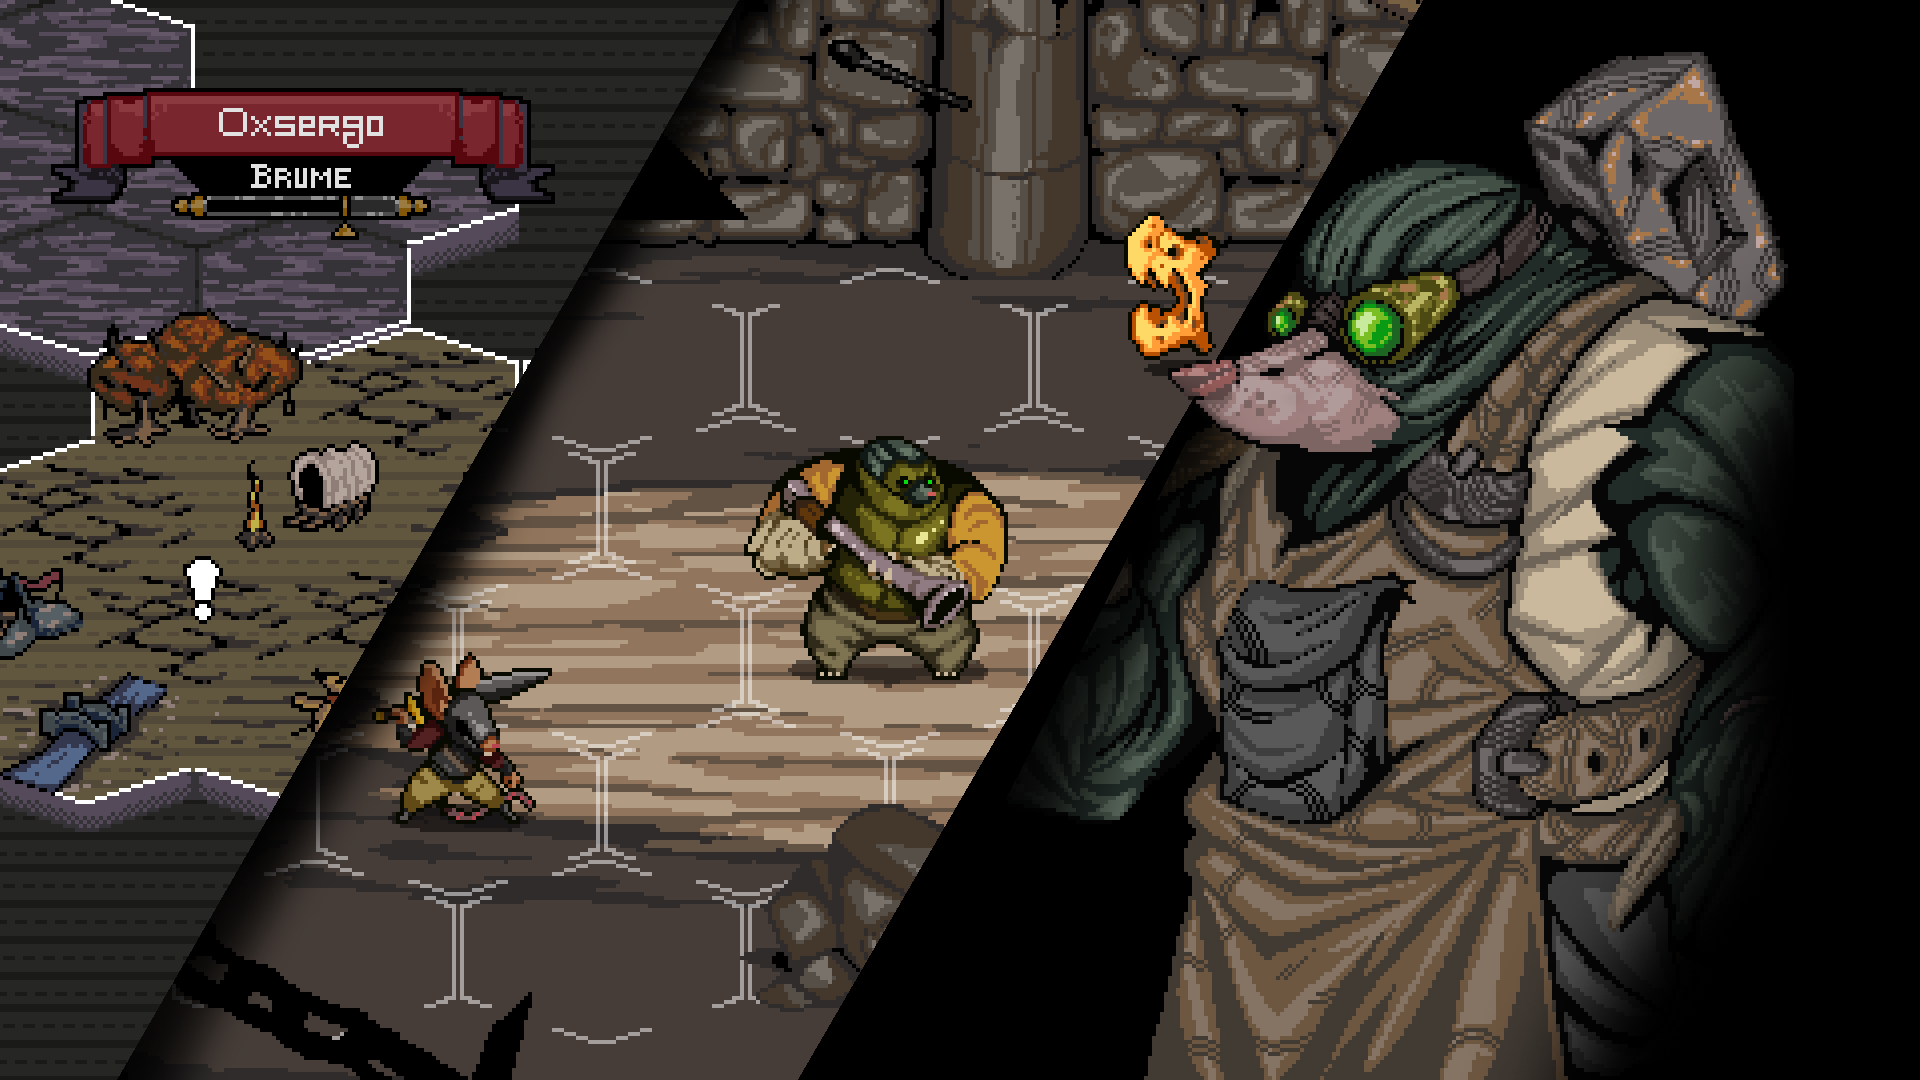
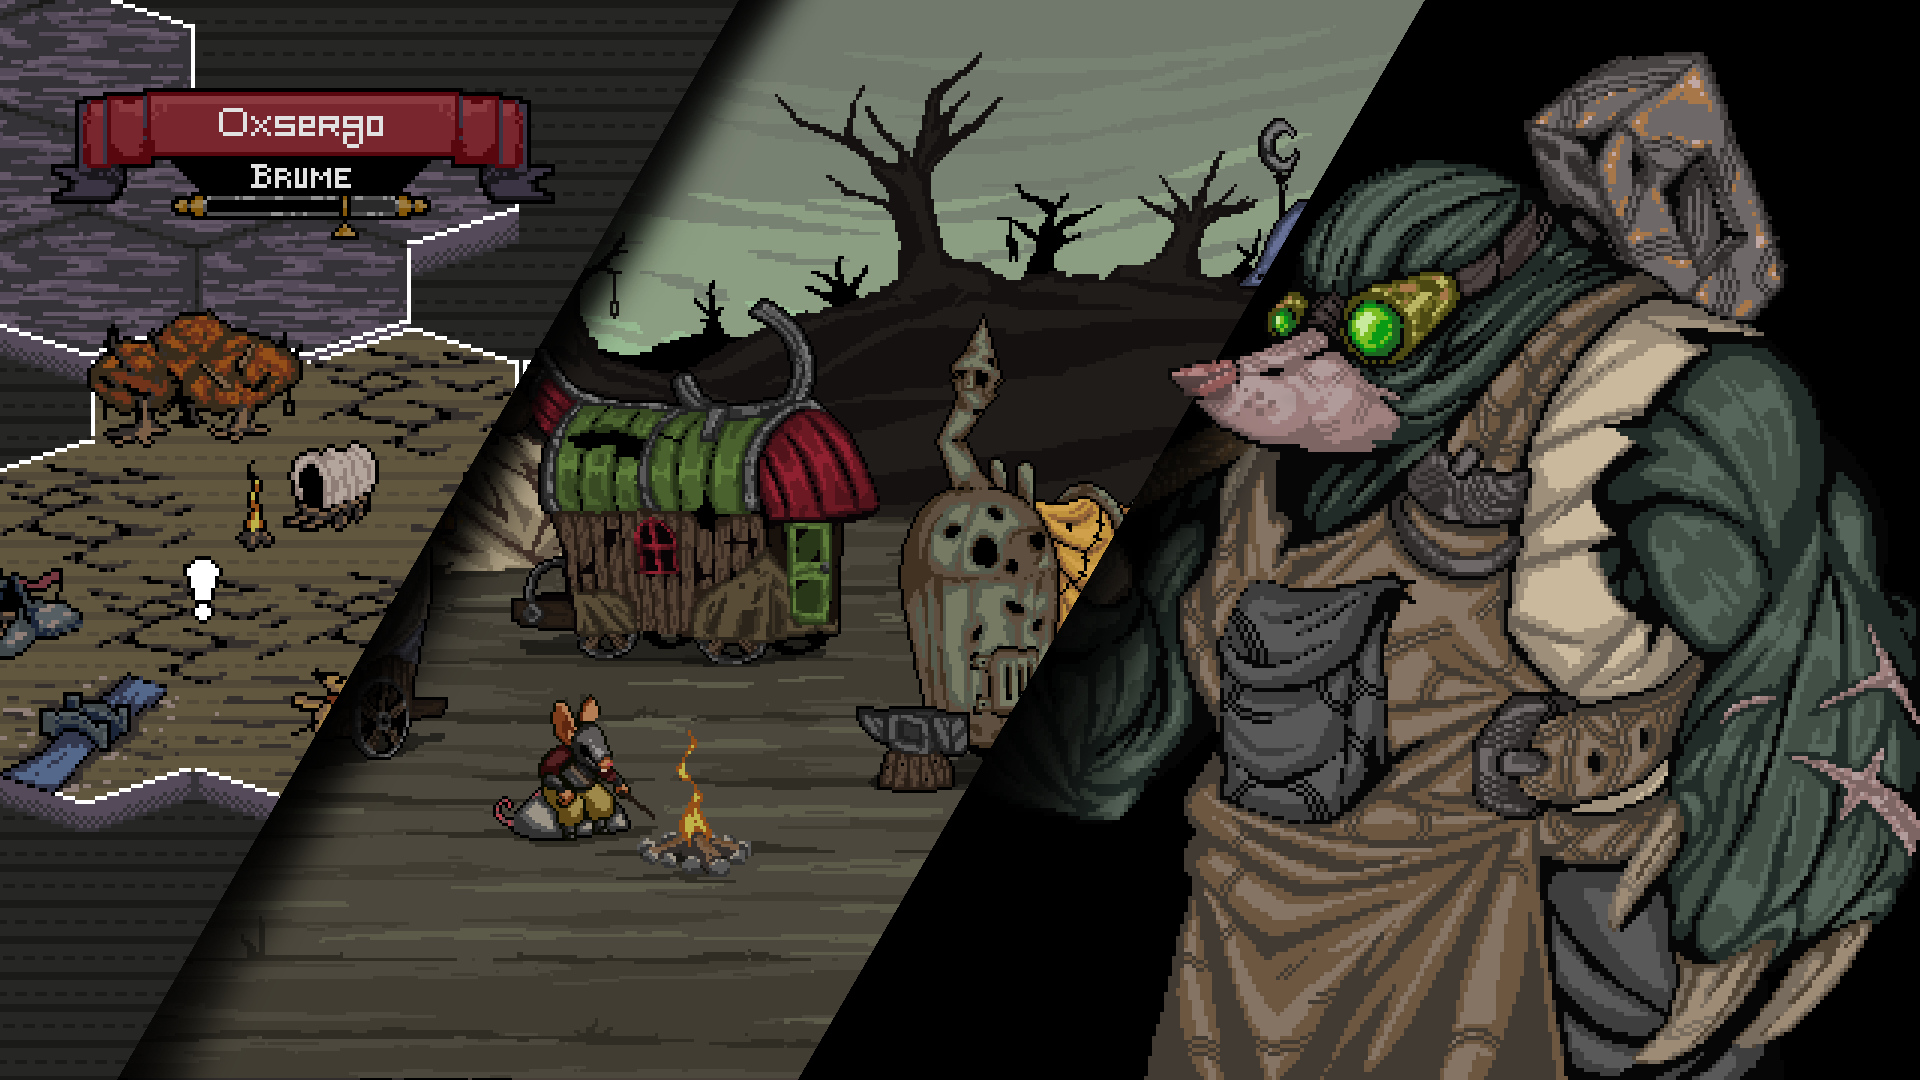
Updated images

diff --git a/index.html b/index.html
@@ -70,7 +70,7 @@
 
 			<!-- Three -->
 				<section id="three" class="spotlight style3 left">
-					<span class="image fit main bottom"><img src="images/NEWmockups.png" alt="" /></span>
+					<span class="image fit main bottom"><img src="images/MockUpBattle3.png" alt="" /></span>
 					<div class="content">
 						<header>
 							<h2></h2>
